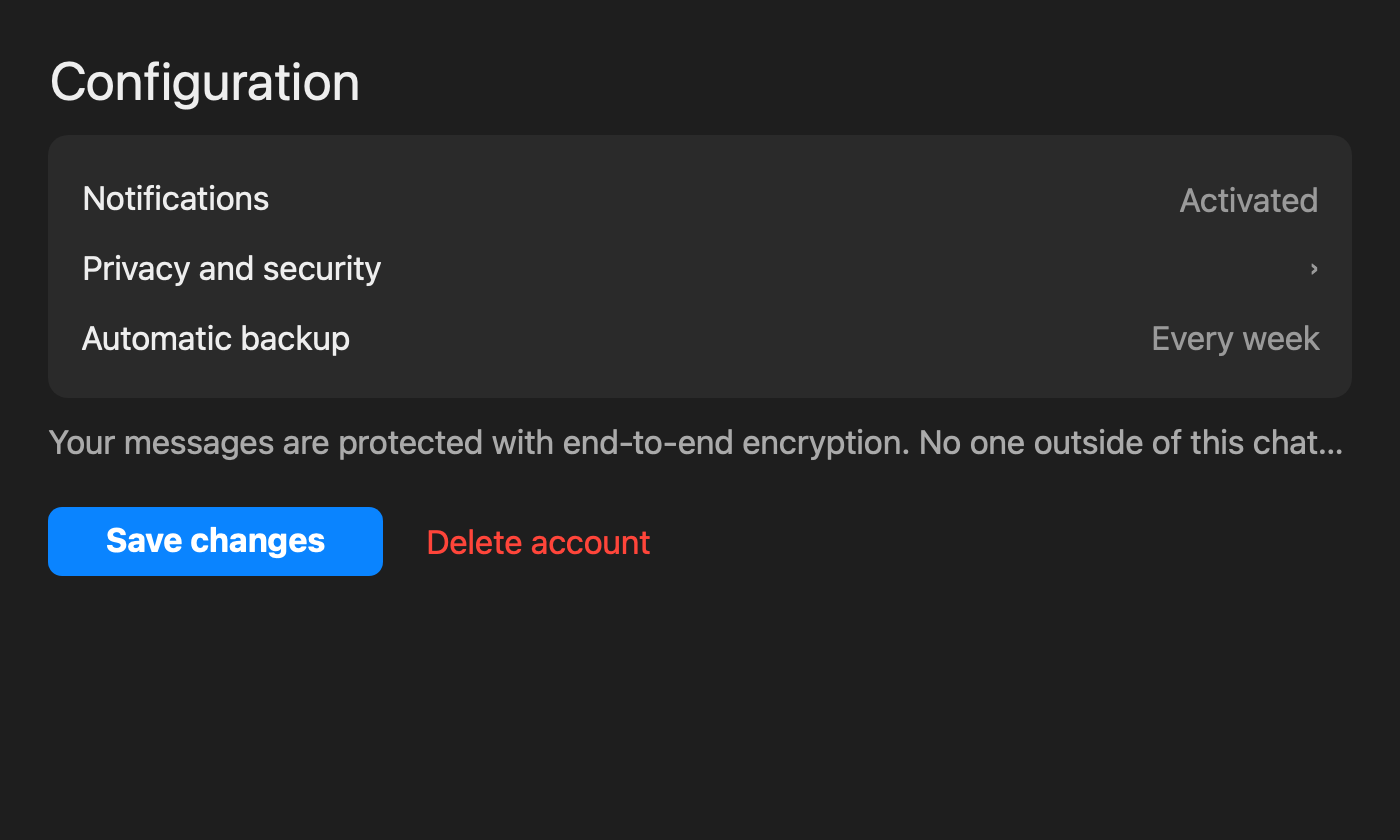
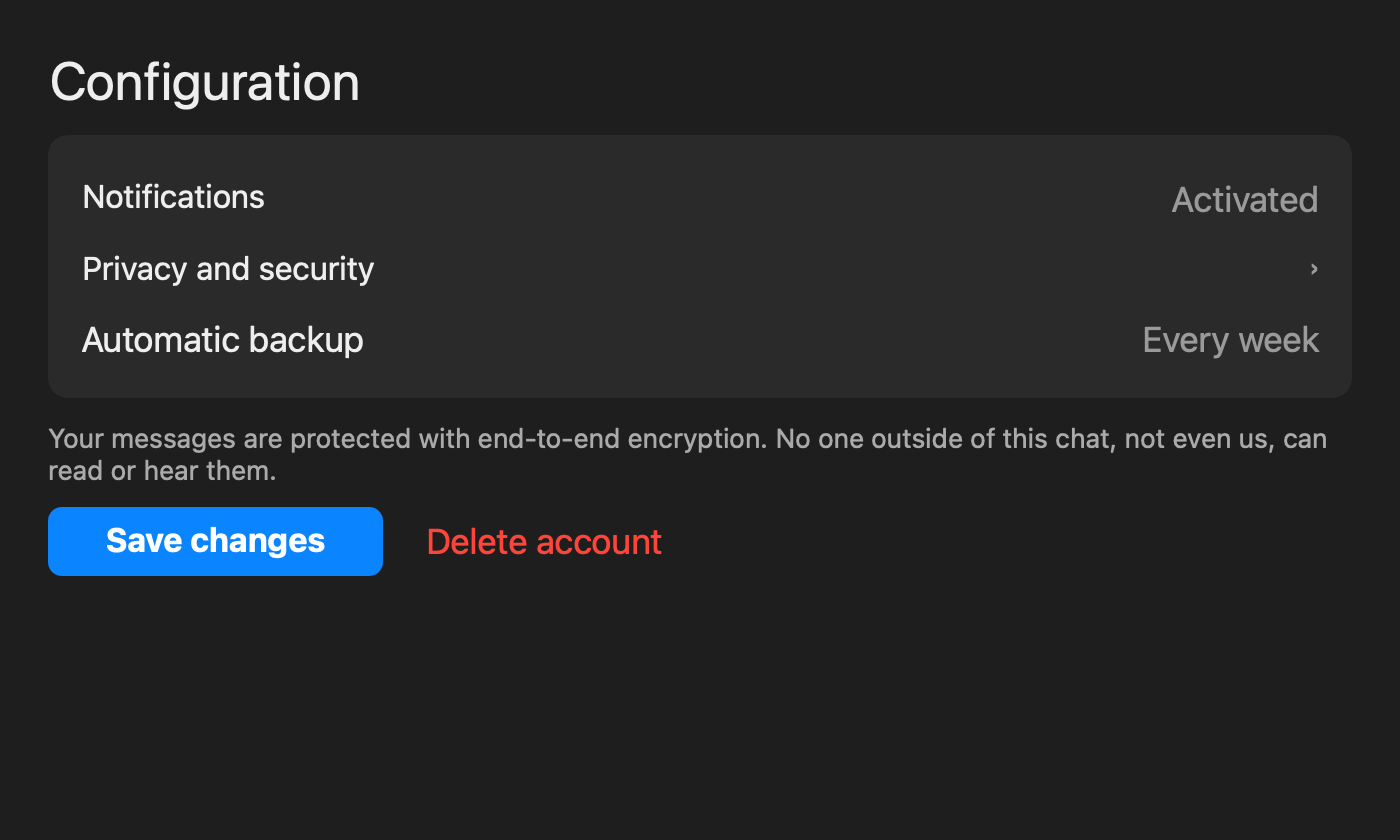
Split shared gaps between row neighbours; size paragraphs from their lines' summed width
Two labels in a menu bar or toolbar could both widen into the same gap. Paragraph sizes were
inflated by line-box height and by snapping with single lines; they now come from the width
their text takes and keep their own size. Paragraph text gets a little slack so a last line
isn't cut off. Reference renders regenerated.

diff --git a/Sources/Pipeline.swift b/Sources/Pipeline.swift
@@ -123,7 +123,12 @@ enum Pipeline {
             // which includes the app's line spacing.
             let byHeight = (it.lines > 1 ? (it.glyphHeight ?? it.lineHeight / 1.2) : it.lineHeight) * 0.8
             var size = byHeight
-            if it.lines == 1, it.text.count >= 4 {
+            if it.lines > 1 {
+                // Paragraph: the width its text takes, summed over its lines.
+                let w = (it.text as NSString).size(withAttributes: [.font: NSFont.systemFont(ofSize: 20)]).width
+                let filled = it.linesWidth ?? it.rect.width * (CGFloat(it.lines) - 0.4)
+                if w > 0 { size = min(max(20 * filled / w, byHeight * 0.6), byHeight * 1.1) }
+            } else if it.text.count >= 4 {
                 // Width is steadier than height (which swings with ascenders and descenders).
                 let w = (it.text as NSString).size(withAttributes: [.font: NSFont.systemFont(ofSize: 20)]).width
                 if w > 0 { size = min(max(20 * it.rect.width / w, byHeight * 0.6), byHeight * 1.4) }
@@ -131,12 +136,14 @@ enum Pipeline {
             it.size = max(7, size)
             return it
         }
-        let sizes = out.compactMap(\.size).sorted()
+        // Snap single lines only (paragraphs keep their own estimate), in clusters that stay
+        // within 12% of their smallest member so a chain of steps can't drift upward.
+        let sizes = out.filter { $0.lines == 1 }.compactMap(\.size).sorted()
         var clusters: [[CGFloat]] = []
         for s in sizes {
-            if let last = clusters.last?.last, s <= last * 1.1 { clusters[clusters.count - 1].append(s) } else { clusters.append([s]) }
+            if let first = clusters.last?.first, s <= first * 1.12 { clusters[clusters.count - 1].append(s) } else { clusters.append([s]) }
         }
-        for i in out.indices {
+        for i in out.indices where out[i].lines == 1 {
             guard let s = out[i].size, let c = clusters.first(where: { $0.contains(s) }) else { continue }
             out[i].size = (c[c.count / 2] * 2).rounded() / 2
         }

diff --git a/Sources/Overlay.swift b/Sources/Overlay.swift
@@ -206,8 +206,10 @@ final class OverlayView: NSView {
         }
         let band = orig.insetBy(dx: 0, dy: orig.height * 0.25)
         let inRow = others.filter { $0.minY < band.maxY && $0.maxY > band.minY }
-        let freeRight = min(a.right, inRow.filter { $0.minX >= orig.maxX - 1 }.map { $0.minX - orig.maxX - 2 }.min() ?? .infinity, bounds.width - orig.maxX)
-        let freeLeft = min(a.left, inRow.filter { $0.maxX <= orig.minX + 1 }.map { orig.minX - $0.maxX - 2 }.min() ?? .infinity, orig.minX)
+        // A gap shared with a neighbour in the same row is split in half, so two labels that
+        // both widen (menu bars, toolbars) can't run into each other.
+        let freeRight = min(a.right, inRow.filter { $0.minX >= orig.maxX - 1 }.map { ($0.minX - orig.maxX) / 2 - 1 }.min() ?? .infinity, bounds.width - orig.maxX)
+        let freeLeft = min(a.left, inRow.filter { $0.maxX <= orig.minX + 1 }.map { (orig.minX - $0.maxX) / 2 - 1 }.min() ?? .infinity, orig.minX)
         var size = min(base.pointSize, cap ?? .infinity)
         var textRect = orig
         var s = attr(size)
@@ -238,7 +240,8 @@ final class OverlayView: NSView {
             while height(s) > orig.height + room, size > max(7, base.pointSize * 0.55) { size -= 0.5; s = attr(size) }
             let h = min(height(s), orig.height + room)
             // Paragraphs start at the original first line.
-            textRect = CGRect(x: orig.minX, y: orig.maxY - h, width: orig.width, height: h)
+            // A little slack below: line fragments can need a point more than measured.
+            textRect = CGRect(x: orig.minX, y: orig.maxY - h - 3, width: orig.width, height: h + 3)
         }
 
         // Background: the text area plus padding that stops at any border around it.

diff --git a/Sources/TextSource.swift b/Sources/TextSource.swift
@@ -10,6 +10,7 @@ struct TextItem {
     var font: NSFont?            // known only for Accessibility text
     var size: CGFloat?           // estimated point size for OCR text
     var glyphHeight: CGFloat?    // median height of the single OCR lines a paragraph was merged from
+    var linesWidth: CGFloat?     // summed width of those lines
     var align: NSTextAlignment = .left
     var fromAX = false
 
@@ -137,7 +138,7 @@ enum OCR {
             used[i] = true
             var block = sorted[i]
             var last = sorted[i]
-            var lefts = [last.rect.minX], centers = [last.rect.midX], heights = [last.rect.height]
+            var lefts = [last.rect.minX], centers = [last.rect.midX], heights = [last.rect.height], widths = [last.rect.width]
             var j = i + 1
             while j < sorted.count {
                 if used[j] { j += 1; continue }
@@ -158,12 +159,13 @@ enum OCR {
                     block.text += joiner + n.text
                     block.rect = block.rect.union(n.rect)
                     block.lines += 1
-                    lefts.append(n.rect.minX); centers.append(n.rect.midX); heights.append(n.rect.height)
+                    lefts.append(n.rect.minX); centers.append(n.rect.midX); heights.append(n.rect.height); widths.append(n.rect.width)
                     last = n
                 }
                 j += 1
             }
             block.glyphHeight = heights.sorted()[heights.count / 2]
+            block.linesWidth = widths.reduce(0, +)
             if block.lines > 1 {
                 let leftSpread = (lefts.max()! - lefts.min()!), centerSpread = (centers.max()! - centers.min()!)
                 if centerSpread < leftSpread * 0.5 { block.align = .center }

diff --git a/shared/SPEC.md b/shared/SPEC.md
@@ -78,9 +78,11 @@ capture → text items (accessibility ∥ OCR) → filter → translate (batched
 - Add OCR items that don't overlap any kept accessibility item by more than 25% of their area.
 - OCR font size: by height = h × 0.8 (single line) or h × 0.74 (multi-line); for single lines
   prefer the size at which the text measured in the system font matches the box width,
-  clamped to 0.75…1.15 × the height estimate; minimum 7. Then **snap**: sort sizes, chain any
-  size ≤ 1.1× its predecessor into one cluster, give every item its cluster's median
-  (rounded to 0.5). OCR text is drawn in the regular system font weight.
+  clamped to 0.6…1.4 × the height estimate (text ≥ 4 characters); paragraphs: the glyph
+  height of their single lines × 0.8, checked against the summed width of
+  those lines (size at which the text measures that wide), clamped to 0.6…1.1×; minimum 7. Then **snap** single lines only: sort,
+  start a cluster at the smallest size and add sizes ≤ 1.12× that first member; every item
+  gets its cluster's median (rounded to 0.5). OCR text is drawn in the regular system font weight.
 
 ### 2.5 Filter (never translated, original stays visible)
 - No letters (numbers, symbols).
@@ -163,7 +165,8 @@ capture → text items (accessibility ∥ OCR) → filter → translate (batched
   but padding only extends into measured free background (never over a border).
   Corner radius 2 (seamless) or 5 with a soft shadow and hairline border (card style).
 - **Single line**: widen into measured free space first (up to 2.5×, on the side the
-  alignment allows, never onto another block's original box or off screen), then shrink in
+  alignment allows, never off screen, and taking at most half of a gap shared with a
+  neighbouring block in the same row: (gap / 2 − 1)), then shrink in
   0.5 pt steps to max(7, 0.6×), then truncate the tail. Never wrap. Draw one line of the
   font's own height centered on the original line's midline.
 - **Paragraph**: shrink to max(7, 0.7×) while taller than 1.06× the box; then grow downward
